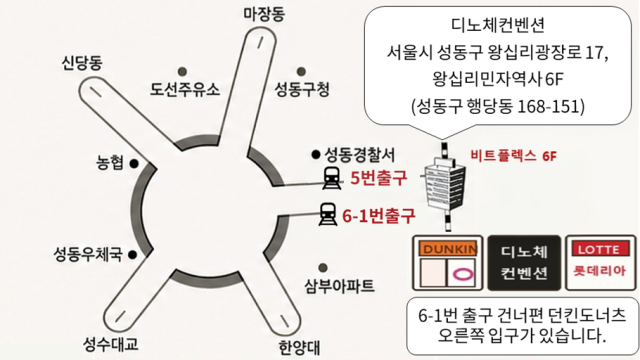
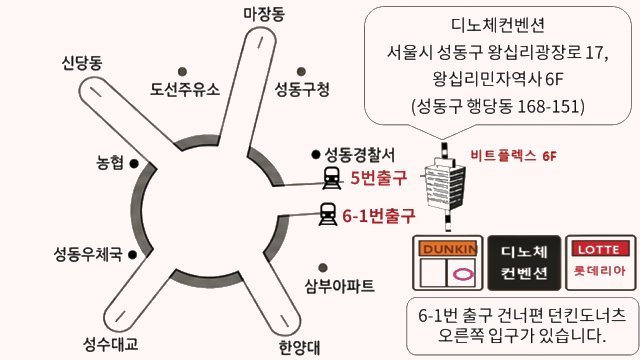
이미지 변환 & 약도 수정

diff --git a/src/pages/Location.tsx b/src/pages/Location.tsx
@@ -1,4 +1,4 @@
-import React, { useRef, useEffect, useState } from "react";
+import React, { useRef, useState } from "react";
 import kakaoMapIcon from "../images/kakao.png";
 import naverMapIcon from "../images/naver.webp";
 import upArrow from "../images/up-arrow-button.png";
@@ -6,6 +6,7 @@ import downArrow from "../images/down-arrow-button.png";
 import locationGuide from "../images/location-guide.png";
 import { useFadeUp } from "../hooks/useFadeUp";
 
+/* 카카오 지도 주석처리 (약도 이미지로 대체)
 declare global {
   interface Window {
     kakao?: KakaoStatic;
@@ -45,17 +46,29 @@ interface MarkerOptions {
 interface MarkerInstance {
   setMap(map: MapInstance): void;
 }
+*/
 
 const Location: React.FC = () => {
   const { ref: titleRef, show: titleShow } = useFadeUp();
   const { ref: locationrRef, show: locationShow } = useFadeUp();
   const { ref: dropdownRef, show: dropdownShow } = useFadeUp();
 
-  const mapRef = useRef<HTMLDivElement | null>(null);
   const [openTransport, setOpenTransport] = useState(false);
   const [openCar, setOpenCar] = useState(false);
-  const [showGuide, setShowGuide] = useState(false);
+  const transportRef = useRef<HTMLDivElement | null>(null);
+  const carRef = useRef<HTMLDivElement | null>(null);
 
+  const handleTransportTransitionEnd = () => {
+    if (!openTransport) return;
+    transportRef.current?.scrollIntoView({ behavior: "smooth", block: "center" });
+  };
+
+  const handleCarTransitionEnd = () => {
+    if (!openCar) return;
+    carRef.current?.scrollIntoView({ behavior: "smooth", block: "center" });
+  };
+
+  /* 카카오 지도 초기화 주석처리 (약도 이미지로 대체)
   const lat = 37.5614417528647;
   const lng = 127.038394194396;
   useEffect(() => {
@@ -108,6 +121,7 @@ const Location: React.FC = () => {
       if (retryTimer) clearTimeout(retryTimer);
     };
   }, []);
+  */
 
   const gotoKakaoMap = () => {
     window.location.href =
@@ -134,8 +148,10 @@ const Location: React.FC = () => {
           <div>서울 성동구 왕십리광장로 17 6층</div>
         </div>
 
-        {/* 카카오 지도 */}
+        {/* 카카오 지도 주석처리, 약도 이미지로 대체
         <div ref={mapRef} className="location__map" />
+        */}
+        <img src={locationGuide} alt="약도" className="location__guide-img" />
 
         {/* 지도 앱 / 웹 이동 버튼 */}
         <div className="location__map-icon-box">
@@ -157,7 +173,7 @@ const Location: React.FC = () => {
           </div>
         </div>
 
-        {/* 약도 이미지 버튼 */}
+        {/* 약도 이미지를 지도 자리에서 바로 보여주므로 버튼/모달 주석처리
         <button
           type="button"
           className="location__guide-btn"
@@ -165,8 +181,10 @@ const Location: React.FC = () => {
         >
           🗺 약도 이미지 보기
         </button>
+        */}
       </div>
 
+      {/*
       {showGuide && (
         <div
           className="location__guide-overlay"
@@ -187,6 +205,7 @@ const Location: React.FC = () => {
           </div>
         </div>
       )}
+      */}
 
       <div
         ref={dropdownRef}
@@ -210,9 +229,11 @@ const Location: React.FC = () => {
               />
             </div>
             <div
+              ref={transportRef}
               className={`location__dropdown-content ${
                 openTransport ? "open" : ""
               }`}
+              onTransitionEnd={handleTransportTransitionEnd}
             >
               <div>• 지하철</div>
               <div>2호선, 5호선 왕십리역 6-1번 출구 맞은편 롯데리아 옆 EV</div>
@@ -241,7 +262,9 @@ const Location: React.FC = () => {
               />
             </div>
             <div
+              ref={carRef}
               className={`location__dropdown-content ${openCar ? "open" : ""}`}
+              onTransitionEnd={handleCarTransitionEnd}
             >
               <div>• 주차</div>
               <div>왕십리 민자역사 비트플렉스 5F</div>

diff --git a/src/pages/ImgGallery.tsx b/src/pages/ImgGallery.tsx
@@ -11,13 +11,13 @@ import "swiper/css/thumbs";
 
 import { useFadeUp } from "../hooks/useFadeUp";
 
-import p1 from "../images/1.jpg";
-import p2 from "../images/2.jpg";
-import p3 from "../images/3.jpg";
-import p5 from "../images/5.jpg";
-import p6 from "../images/6.jpg";
-import p7 from "../images/7.jpg";
-import p8 from "../images/8.jpg";
+import p1 from "../images/1.webp";
+import p2 from "../images/2.webp";
+import p3 from "../images/3.webp";
+import p5 from "../images/5.webp";
+import p6 from "../images/6.webp";
+import p7 from "../images/7.webp";
+import p8 from "../images/8.webp";
 const ImgGallery: React.FC = () => {
   const { ref: titleRef, show: titleShow } = useFadeUp();
   const { ref: ImgGalleryRef, show: ImgGalleryShow } = useFadeUp();

diff --git a/src/pages/AutoCover.tsx b/src/pages/AutoCover.tsx
@@ -1,13 +1,13 @@
 import React, { useEffect, useState, useRef } from "react";
 import "../css/AutoCover.css"; // CSS 파일 임포트
-import p1 from "../images/1.jpg";
-import p2 from "../images/2.jpg";
-import p3 from "../images/3.jpg";
-import p4 from "../images/4.jpg";
-import p5 from "../images/5.jpg";
-import p6 from "../images/6.jpg";
-import p7 from "../images/7.jpg";
-import p8 from "../images/8.jpg";
+import p1 from "../images/1.webp";
+import p2 from "../images/2.webp";
+import p3 from "../images/3.webp";
+import p4 from "../images/4.webp";
+import p5 from "../images/5.webp";
+import p6 from "../images/6.webp";
+import p7 from "../images/7.webp";
+import p8 from "../images/8.webp";
 
 const images = [p1, p2, p3, p4, p5, p6, p7, p8];
 

diff --git a/src/pages/Scroll.tsx b/src/pages/Scroll.tsx
@@ -1,12 +1,12 @@
 import React, { useEffect, useState } from "react";
-import p1 from "../images/1.jpg";
-import p2 from "../images/2.jpg";
-import p3 from "../images/3.jpg";
-import p4 from "../images/4.jpg";
-import p5 from "../images/5.jpg";
-import p6 from "../images/6.jpg";
-import p7 from "../images/7.jpg";
-import p8 from "../images/8.jpg";
+import p1 from "../images/1.webp";
+import p2 from "../images/2.webp";
+import p3 from "../images/3.webp";
+import p4 from "../images/4.webp";
+import p5 from "../images/5.webp";
+import p6 from "../images/6.webp";
+import p7 from "../images/7.webp";
+import p8 from "../images/8.webp";
 
 const images = [p1, p2, p3, p4, p5, p6, p7, p8];
 

diff --git a/src/pages/Contact.tsx b/src/pages/Contact.tsx
@@ -2,11 +2,11 @@ import React, { useState } from "react";
 import { FiPhoneCall } from "react-icons/fi";
 import "../css/Modal.css";
 import ContactModal from "../components/ContactModal";
-import sDad from "../images/1.jpg";
-import sMom from "../images/1.jpg";
+import sDad from "../images/1.webp";
+import sMom from "../images/1.webp";
 import sMain from "../images/Contact-2.jpg";
 import eMain from "../images/Contact-1.jpg";
-import eMom from "../images/1.jpg";
+import eMom from "../images/1.webp";
 import { useFadeUp } from "../hooks/useFadeUp";
 
 const Contact: React.FC = () => {

diff --git a/src/css/Location.css b/src/css/Location.css
@@ -20,7 +20,7 @@
   width: 100%;
   display: flex;
   justify-content: center;
-  gap: 14px;
+  gap: 28px;
 }
 
 .location__map-icon {
@@ -110,6 +110,15 @@
 .location__map {
   width: 320px;
   height: 320px;
+}
+
+.location__guide-img {
+  display: block;
+  width: 100%;
+  max-width: 480px;
+  height: auto;
+  margin: 20px auto 32px;
+  border-radius: 8px;
 }
 
 .location__info {

diff --git a/src/css/Navigator.css b/src/css/Navigator.css
@@ -82,8 +82,8 @@
   right: 12px;
   top: 50%;
   transform: translateY(-50%);
-  width: 34px;
-  height: 34px;
+  width: 28px;
+  height: 28px;
   display: flex;
   align-items: center;
   justify-content: center;
@@ -94,8 +94,8 @@
 }
 
 .music-btn {
-  width: 16px;
-  height: 16px;
+  width: 13px;
+  height: 13px;
 }
 
 .music-btn.clicked {

diff --git a/src/App.tsx b/src/App.tsx
@@ -255,7 +255,7 @@ function App() {
           maxWidth: "480px",
           width: "100%",
           margin: "0 auto",
-     height: mode === "auto" ? "700px" : "8700px",
+          height: mode === "auto" ? "600px" : "8700px",
         }}
       >
         {mode === "scroll" ? <Scroll /> : <AutoCover />}

diff --git a/src/pages/Account.tsx b/src/pages/Account.tsx
@@ -36,7 +36,7 @@ const Account: React.FC = () => {
 
     dropdownRef.current?.scrollIntoView({
       behavior: "smooth",
-      block: "start",
+      block: "center",
     });
   };
   const renderContact = (contact: Contact, index: number, type: string) => (

diff --git a/src/pages/Cover.tsx b/src/pages/Cover.tsx
@@ -1,6 +1,6 @@
 import { useState } from "react";
 import "../css/Cover.css";
-import mainImg from "../images/main.jpg";
+import mainImg from "../images/main.webp";
 
 interface CoverProps {
   onDone?: () => void;
